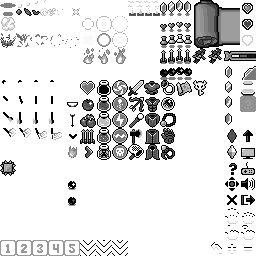
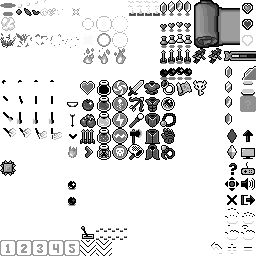
Move FloorSpikes and Lever into Mainsheet, Improve ConveyorBelt animation
moved floor spikes + lever into mainsheet.
updated ObjAnimList for lever + spikes.
updated Obj.SetType() for lever + spikes.
playtested, sprites appearing normally.

reduced conveyorBelt animation to 2 frames.
these two frames are also seamless.
updated ConveyorBelt ObjAnimList.
playtested, looking great!

Changed region(s): [[0.3125, 0.875, 0.5, 1.0]]

diff --git a/GameClasses/Functions_GameObjectAnimList.cs b/GameClasses/Functions_GameObjectAnimList.cs
@@ -102,17 +102,17 @@ namespace DungeonRun
                 new List<Byte4> { new Byte4(1, 4, 0, 0) },
 
                 //LeverOn
-                new List<Byte4> { new Byte4(0, 5, 0, 0) },
+                new List<Byte4> { new Byte4(5, 14, 0, 0) },
                 //LeverOff
-                new List<Byte4> { new Byte4(0, 5, 1, 0) },
+                new List<Byte4> { new Byte4(5, 14, 1, 0) },
                 //SpikesFloorOn
-                new List<Byte4> { new Byte4(1, 5, 0, 0), new Byte4(2, 5, 0, 0) },
+                new List<Byte4> { new Byte4(6, 14, 0, 0), new Byte4(7, 14, 0, 0) },
                 //SpikesFloorOff
-                new List<Byte4> { new Byte4(2, 5, 0, 0), new Byte4(2, 5, 0, 0) },
+                new List<Byte4> { new Byte4(7, 14, 0, 0), new Byte4(7, 14, 0, 0) },
                 //ConveyorBeltOn
-                new List<Byte4> { new Byte4(5, 15, 0, 0), new Byte4(6, 15, 0, 0), new Byte4(7, 15, 0, 0) },
+                new List<Byte4> { new Byte4(5, 15, 0, 0), new Byte4(6, 15, 0, 0) },
                 //ConveyorBeltOff
-                new List<Byte4> { new Byte4(5, 15, 0, 0), new Byte4(6, 15, 0, 0), new Byte4(7, 15, 0, 0) },
+                new List<Byte4> { new Byte4(5, 15, 0, 0), new Byte4(5, 15, 0, 0) },
 
                 //PotSkull
                 new List<Byte4> { new Byte4(0, 6, 0, 0) },

diff --git a/GameClasses/Functions_GameObject.cs b/GameClasses/Functions_GameObject.cs
@@ -380,11 +380,13 @@ namespace DungeonRun
             {
                 Obj.compSprite.texture = Assets.mainSheet;
                 Obj.compSprite.zOffset = -32; //sort to floor
+                Obj.compAnim.speed = 10; //in frames
                 Obj.compCollision.blocking = false;
                 Obj.canBeSaved = true;
             }
             else if (Type == ObjType.SpikesFloorOn || Type == ObjType.SpikesFloorOff)
             {
+                Obj.compSprite.texture = Assets.mainSheet;
                 Obj.compCollision.offsetX = -5; Obj.compCollision.offsetY = -5;
                 Obj.compCollision.rec.Width = 10; Obj.compCollision.rec.Height = 10;
                 Obj.compSprite.zOffset = -32; //sort to floor
@@ -405,6 +407,7 @@ namespace DungeonRun
             }
             else if (Type == ObjType.LeverOn || Type == ObjType.LeverOff)
             {
+                Obj.compSprite.texture = Assets.mainSheet;
                 Obj.compCollision.offsetX = -7; Obj.compCollision.offsetY = 2;
                 Obj.compCollision.rec.Width = 12; Obj.compCollision.rec.Height = 5;
                 Obj.compSprite.zOffset = -3;
